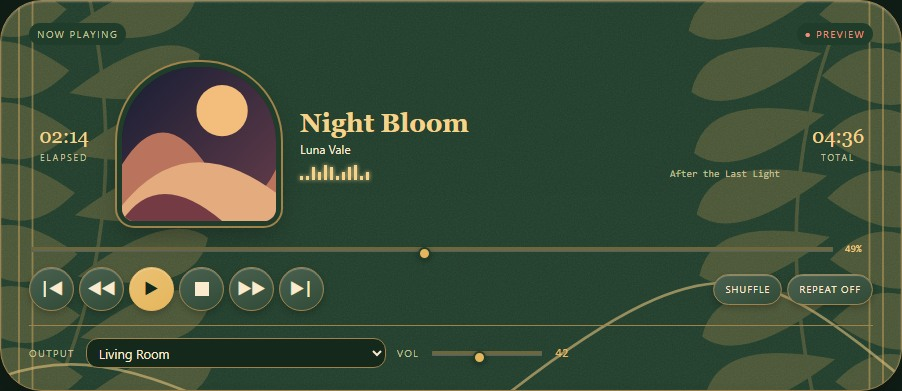
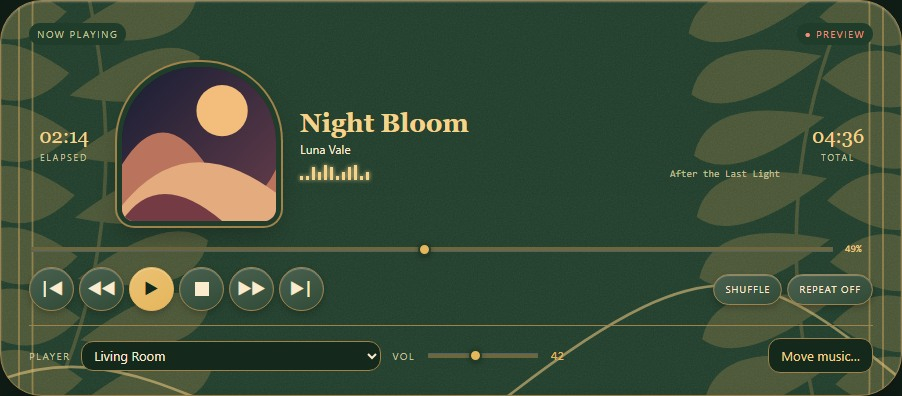
Refine marketing site readability and support
## Changes
- Replace the closing monogram with the Decksona logo and improve the platform label.
- Tune supporting text sizes to improve readability without overpowering the page.
- Add phone audio resume guidance and a support page covering setup, connection, playback, and updates.
- Regenerate the five featured skin previews from the current player UI so seek and volume controls align.
- Update preview dimensions and include the support page in the sitemap.

diff --git a/marketing/index.html b/marketing/index.html
@@ -76,12 +76,12 @@
       <section class="skins-section" id="skins">
         <div class="section-wrap">
           <div class="marketing-themes-intro"><span class="section-index">03</span><p class="eyebrow">PICK YOUR FREQUENCY</p><h2>57 ways to make<br>it <em>feel like yours.</em></h2><p>Explore 21 crafted listening rooms, from walnut and amber to stained glass and sea glass. Plus the original 36 palette and surface combinations. Every preview shows the actual player.</p><p class="skins-note"><span class="tiny-spark">✳</span> Your skin choice stays on your computer.</p></div>
-          <div class="marketing-theme-feature"><figure><img src="assets/theme-previews/vinyl-lounge.jpg" alt="Vinyl Lounge player skin with a record-inspired album frame, warm walnut tones, amber controls and track details" loading="lazy" width="900" height="570"><figcaption><span>01 / LISTENING ROOM</span><strong>Vinyl Lounge</strong><span>Walnut · amber light · the long way home</span></figcaption></figure></div>
+          <div class="marketing-theme-feature"><figure><img src="assets/theme-previews/vinyl-lounge.jpg" alt="Vinyl Lounge player skin with a record-inspired album frame, warm walnut tones, amber controls and track details" loading="lazy" width="902" height="396"><figcaption><span>01 / LISTENING ROOM</span><strong>Vinyl Lounge</strong><span>Walnut · amber light · the long way home</span></figcaption></figure></div>
           <div class="marketing-theme-grid" aria-label="Actual player previews for the listening room themes">
-            <figure><img src="assets/theme-previews/liquid-chrome.jpg" alt="Liquid Chrome player with silver waves and blue sculpted controls" loading="lazy" width="900" height="570"><figcaption>Liquid Chrome</figcaption></figure>
-            <figure><img src="assets/theme-previews/moss-mist.jpg" alt="Moss and Mist player with sage surfaces and botanical details" loading="lazy" width="900" height="570"><figcaption>Moss &amp; Mist</figcaption></figure>
-            <figure><img src="assets/theme-previews/jazz-after-hours.jpg" alt="Jazz After Hours player in burgundy and brass" loading="lazy" width="900" height="570"><figcaption>Jazz After Hours</figcaption></figure>
-            <figure><img src="assets/theme-previews/art-nouveau.jpg" alt="Art Nouveau player with emerald and curling champagne-gold details" loading="lazy" width="900" height="570"><figcaption>Art Nouveau</figcaption></figure>
+            <figure><img src="assets/theme-previews/liquid-chrome.jpg" alt="Liquid Chrome player with silver waves and blue sculpted controls" loading="lazy" width="902" height="408"><figcaption>Liquid Chrome</figcaption></figure>
+            <figure><img src="assets/theme-previews/moss-mist.jpg" alt="Moss and Mist player with sage surfaces and botanical details" loading="lazy" width="902" height="396"><figcaption>Moss &amp; Mist</figcaption></figure>
+            <figure><img src="assets/theme-previews/jazz-after-hours.jpg" alt="Jazz After Hours player in burgundy and brass" loading="lazy" width="902" height="396"><figcaption>Jazz After Hours</figcaption></figure>
+            <figure><img src="assets/theme-previews/art-nouveau.jpg" alt="Art Nouveau player with emerald and curling champagne-gold details" loading="lazy" width="902" height="396"><figcaption>Art Nouveau</figcaption></figure>
           </div>
           <p class="marketing-more-skins"><strong>And 52 more skins to find your frequency.</strong> Explore all 57 in the app, including 21 listening rooms and 36 classic palette and surface combinations.</p>
         </div>
@@ -96,6 +96,8 @@
             <p>The phone-sized web app brings Decksona’s player, library and queue to your iPhone or Android browser. Add it to your home screen and use your phone as a remote for Music Assistant.</p>
             <div class="phone-tabs" aria-label="Web app tabs"><span>PLAYER</span><span>LIBRARY</span><span>QUEUE</span></div>
             <p class="phone-output-note"><strong>Your phone controls the music.</strong> Playback comes from the Music Assistant output you choose; the phone itself isn’t an audio output.</p>
+            <p class="phone-resume-note"><strong>Pick up where you left off.</strong> If phone audio pauses or iOS interrupts it, return to Decksona and tap <strong>Resume phone audio</strong>.</p>
+            <a class="phone-help-link" href="help.html">Phone setup and troubleshooting <span aria-hidden="true">↗</span></a>
           </div>
           <div class="phone-setup">
             <div class="phone-setup-heading"><span class="phone-setup-icon">↗</span><div><span class="eyebrow">INSTALL ON YOUR HOME NETWORK</span><h3>Bring Decksona<br>to your home screen.</h3></div></div>
@@ -105,6 +107,7 @@
               <li><span>03</span><div><strong>Add to your home screen</strong><p>Use Safari’s Share menu on iPhone, or Chrome’s menu on Android, then connect your Music Assistant server.</p></div></li>
             </ol>
             <a class="phone-source-link" href="https://github.com/gmalbert/decksona/tree/main/web" target="_blank" rel="noreferrer">Web app files &amp; full setup guide on GitHub <span>↗</span></a>
+            <a class="phone-source-link phone-help-link-setup" href="help.html">Get help with setup and playback <span aria-hidden="true">↗</span></a>
             <p class="phone-security"><strong>For home Wi-Fi:</strong> this setup uses local HTTP. Its access token is saved in the phone’s browser and travels over your local network without TLS. Don’t expose it to the internet or use it on public Wi-Fi.</p>
           </div>
         </div>
@@ -112,10 +115,10 @@
 
       <section class="setup-section" id="getting-started"><div class="section-wrap"><div class="setup-heading"><span class="section-index">05</span><p class="eyebrow">UP AND PLAYING</p><h2>Three steps to<br><em>your next favorite.</em></h2><p>Decksona uses your Music Assistant server and its connected players to control playback.</p></div><div class="setup-steps"><article class="setup-step"><span class="step-index">01</span><h3>Have Music Assistant ready.</h3><p>Decksona connects to Music Assistant over your network. It needs a direct server address, such as <code>http://your-server:8095</code>.</p><a href="https://www.music-assistant.io/" target="_blank" rel="noreferrer">About Music Assistant <span>↗</span></a></article><article class="setup-step"><span class="step-index">02</span><h3>Create a long-lived token.</h3><p>In Music Assistant, open <strong>Settings → Profile</strong> to create an access token for the connection.</p></article><article class="setup-step"><span class="step-index">03</span><h3>Connect. Choose. Play.</h3><p>Enter your server address and token in Decksona, select an available Music Assistant output, and search your library.</p></article></div><div class="compat-note"><span class="compat-icon">✳</span><span><strong>Using Decksona on your desktop?</strong> The Music Assistant Desktop Companion can provide a <a class="sendspin-link" href="https://www.music-assistant.io/player-support/sendspin/" target="_blank" rel="noreferrer">Sendspin</a> output. Select that output in Decksona to play through your computer’s speakers.</span><a href="https://github.com/music-assistant/desktop-app" target="_blank" rel="noreferrer">See the companion ↗</a></div></div></section>
 
-      <section class="closing-section"><div class="closing-orbit closing-orbit-one"></div><div class="closing-orbit closing-orbit-two"></div><div class="closing-content"><span class="closing-mark">D<span>•</span></span><p class="eyebrow">GOOD MUSIC DESERVES A GOOD HOME.</p><h2>Your desk.<br>Your collection.<br><em>Now playing.</em></h2><a class="button button-primary" href="https://github.com/gmalbert/decksona" target="_blank" rel="noreferrer">Find Decksona on GitHub <span>↗</span></a><p class="closing-platforms">WINDOWS &nbsp;·&nbsp; macOS &nbsp;·&nbsp; MUSIC ASSISTANT</p></div></section>
+      <section class="closing-section"><div class="closing-orbit closing-orbit-one"></div><div class="closing-orbit closing-orbit-two"></div><div class="closing-content"><img class="closing-mark" src="assets/icon.svg" alt="Decksona"><p class="eyebrow">GOOD MUSIC DESERVES A GOOD HOME.</p><h2>Your desk.<br>Your collection.<br><em>Now playing.</em></h2><a class="button button-primary" href="https://github.com/gmalbert/decksona" target="_blank" rel="noreferrer">Find Decksona on GitHub <span>↗</span></a><p class="closing-platforms">WINDOWS &nbsp;·&nbsp; macOS &nbsp;·&nbsp; MUSIC ASSISTANT</p></div></section>
     </main>
 
-    <footer class="site-footer"><a class="wordmark footer-wordmark" href="#top"><img src="assets/icon.svg" alt=""><span>decksona<span class="wordmark-dot">.</span></span></a><p>A desktop and phone player for Music Assistant.<br>Made for listening, one track at a time.</p><div class="footer-links"><a href="https://github.com/gmalbert/decksona" target="_blank" rel="noreferrer">GitHub ↗</a><a href="https://www.music-assistant.io/" target="_blank" rel="noreferrer">Music Assistant ↗</a><a href="#top">Back to top ↑</a></div><span class="footer-copyright">© <span id="year">2026</span> DECKSONA</span></footer>
+    <footer class="site-footer"><a class="wordmark footer-wordmark" href="#top"><img src="assets/icon.svg" alt=""><span>decksona<span class="wordmark-dot">.</span></span></a><p>A desktop and phone player for Music Assistant.<br>Made for listening, one track at a time.</p><div class="footer-links"><a href="help.html">Support &amp; troubleshooting</a><a href="https://github.com/gmalbert/decksona" target="_blank" rel="noreferrer">GitHub ↗</a><a href="https://www.music-assistant.io/" target="_blank" rel="noreferrer">Music Assistant ↗</a><a href="#top">Back to top ↑</a></div><span class="footer-copyright">© <span id="year">2026</span> DECKSONA</span></footer>
     <script src="script.js"></script>
   </body>
 </html>

diff --git a/marketing/refinements.css b/marketing/refinements.css
@@ -323,3 +323,123 @@
 
 .marketing-more-skins { max-width:700px; padding:28px 0 60px; margin:0; color:#b9baa9; line-height:1.8; }
 .marketing-more-skins strong { display:block; margin-bottom:8px; color:#f0dfbf; font:25px Georgia,serif; }
+
+/* Keep explanatory copy readable while retaining compact labels inside player mockups. */
+.visual-caption { font-size:16px; line-height:1.5; }
+.phone-output-note { font-size:20px !important; }
+.phone-resume-note { max-width:430px; margin:15px 0 0; color:#c8c9bf; font-size:18px; line-height:1.75; }
+.phone-resume-note strong { color:#e9e7dc; }
+.phone-help-link { display:inline-block; margin-top:12px; color:var(--teal); font-size:18px; }
+.phone-help-link span { margin-left:5px; }
+.phone-setup-heading .eyebrow { font-size:16px; }
+.phone-steps strong { font-size:18px; }
+.phone-steps p { font-size:16px; }
+.phone-steps code { font-size:16px; }
+.phone-source-link { font-size:16px; }
+.phone-help-link-setup { margin-left:15px; }
+.phone-security { font-size:18px; }
+.marketing-theme-feature figcaption span:first-child { font-size:16px; }
+.marketing-theme-feature figcaption span:last-child { font-size:16px; }
+.marketing-themes-intro .skins-note { font-size:18px !important; }
+.marketing-more-skins { font-size:16px; }
+.help-page { min-height:70vh; padding:68px 32px 100px; }
+.help-intro { max-width:900px; padding:22px 0 45px; }
+.help-back { display:inline-block; margin-bottom:35px; color:var(--teal); font-size:16px; }
+.help-intro .eyebrow { font-size:16px; }
+.help-intro h1 { margin:15px 0 18px; font:500 clamp(48px,7vw,82px)/.98 var(--serif); letter-spacing:-.065em; }
+.help-intro h1 em { color:var(--teal); font-weight:400; }
+.help-intro>p:last-child { max-width:660px; margin:0; color:var(--muted); font-size:20px; line-height:1.75; }
+.help-content { max-width:900px; }
+.help-topic { display:grid; grid-template-columns:54px 1fr; gap:18px; padding:30px 0; border-top:1px solid var(--line-bright); }
+.help-topic .section-index { font-size:16px; }
+.help-topic h2 { margin:0 0 12px; font:500 clamp(24px,3vw,34px)/1.15 var(--serif); letter-spacing:-.04em; }
+.help-topic p { max-width:750px; margin:9px 0 0; color:#c1c2b8; font-size:18px; line-height:1.75; }
+.help-topic code { padding:2px 5px; background:#ffffff10; color:#e2dfd2; font-size:16px; overflow-wrap:anywhere; }
+.help-more { margin-top:20px; padding:24px; border:1px solid #70d9bd40; background:#151c17; }
+.help-more p { margin:0; color:#c1c2b8; font-size:18px; line-height:1.75; }
+.help-more p+p { margin-top:13px; }
+.help-more a { color:var(--teal); text-decoration:underline; text-underline-offset:3px; }
+
+@media(max-width:620px) {
+  .visual-caption { font-size:12px; }
+  .phone-output-note { font-size:16px !important; }
+  .phone-resume-note,.phone-help-link,.phone-steps p,.phone-source-link { font-size:16px; }
+  .phone-setup-heading .eyebrow,.phone-steps strong { font-size:14px; }
+  .phone-steps code,.phone-security { font-size:14px; }
+  .phone-help-link-setup { margin:12px 0 0; }
+  .marketing-theme-feature figcaption span:first-child,.marketing-theme-feature figcaption span:last-child { font-size:14px; }
+  .help-page { padding:48px 20px 72px; }
+  .help-intro { padding:15px 0 30px; }
+  .help-intro .eyebrow,.help-back { font-size:14px; }
+  .help-intro>p:last-child { font-size:18px; }
+  .help-topic { grid-template-columns:34px 1fr; gap:12px; padding:23px 0; }
+  .help-topic .section-index { font-size:14px; }
+  .help-topic p,.help-more p { font-size:16px; }
+  .help-topic code { font-size:14px; }
+  .help-more { padding:18px; }
+}
+
+/* Modestly enlarge supporting copy without letting it compete with headings. */
+.eyebrow,.section-index { font-size:15px; }
+.platform-note { font-size:15px; }
+.visual-caption { font-size:12px; }
+.hero-baseline { font-size:12px; }
+.manifesto-kicker { font-size:14px; }
+.section-heading .eyebrow,.skins-copy .eyebrow,.setup-heading .eyebrow { font-size:14px; }
+.section-intro,.skins-copy>p:not(.eyebrow),.marketing-themes-intro>p:not(.eyebrow):not(.skins-note) { font-size:15px; }
+.feature-number,.card-footnote { font-size:12px; }
+.feature-card>p { font-size:14px; }
+.phone-copy .eyebrow { font-size:14px; }
+.phone-output-note { font-size:15px !important; }
+.phone-resume-note,.phone-help-link { font-size:15px; }
+.phone-tabs span,.phone-steps li>span { font-size:12px; }
+.phone-setup-heading .eyebrow { font-size:12px; }
+.phone-steps strong { font-size:15px; }
+.phone-steps p,.phone-source-link { font-size:13px; }
+.phone-steps code { font-size:12px; }
+.phone-security { font-size:14px; }
+.phone-help-link-setup { margin-left:15px; }
+.marketing-theme-feature figcaption span:first-child { font-size:13px; }
+.marketing-theme-feature figcaption span:last-child { font-size:14px; }
+.marketing-themes-intro .skins-note { font-size:14px !important; }
+.marketing-more-skins { font-size:15px; }
+.setup-heading>p:last-child { font-size:14px; }
+.setup-step p { font-size:14px; }
+.setup-step code { font-size:12px; }
+.setup-step>a { font-size:14px; }
+.compat-note>span:nth-child(2),.compat-note>a { font-size:14px; }
+.site-footer>p,.footer-links { font-size:14px; }
+.footer-copyright { font-size:12px; }
+.closing-content .eyebrow { font-size:14px; }
+.closing-platforms { font-size:12px; }
+.closing-mark { width:52px; height:52px; display:block; margin:0 auto 22px; border:0; border-radius:0; object-fit:contain; }
+.help-back,.help-intro .eyebrow { font-size:14px; }
+.help-intro>p:last-child,.help-topic p,.help-more p { font-size:16px; }
+.help-topic .section-index { font-size:14px; }
+.help-topic code { font-size:13px; }
+
+@media(max-width:620px) {
+  .eyebrow,.section-index,.phone-copy .eyebrow { font-size:13px; }
+  .platform-note { font-size:13px; }
+  .hero-baseline { font-size:9px; }
+  .manifesto-kicker { font-size:12px; }
+  .section-heading .eyebrow,.skins-copy .eyebrow,.setup-heading .eyebrow { font-size:12px; }
+  .section-intro,.skins-copy>p:not(.eyebrow),.marketing-themes-intro>p:not(.eyebrow):not(.skins-note) { font-size:14px; }
+  .feature-number,.card-footnote { font-size:11px; }
+  .feature-card>p { font-size:13px; }
+  .phone-output-note { font-size:14px !important; }
+  .phone-resume-note,.phone-help-link,.phone-steps p,.phone-source-link { font-size:13px; }
+  .phone-setup-heading .eyebrow,.phone-steps li>span,.phone-tabs span { font-size:11px; }
+  .phone-steps strong { font-size:14px; }
+  .phone-steps code,.phone-security { font-size:12px; }
+  .phone-help-link-setup { margin:12px 0 0; }
+  .setup-heading>p:last-child { font-size:13px; }
+  .setup-step p { font-size:13px; }
+  .setup-step>a,.compat-note>a { font-size:13px; }
+  .compat-note>span:nth-child(2) { font-size:13px; }
+  .site-footer>p,.footer-links { font-size:12px; }
+  .footer-copyright { font-size:10px; }
+  .closing-platforms { font-size:11px; }
+  .help-intro>p:last-child,.help-topic p,.help-more p { font-size:15px; }
+  .help-topic code { font-size:12px; }
+}

diff --git a/marketing/help.html b/marketing/help.html
@@ -1,0 +1,80 @@
+<!doctype html>
+<html lang="en">
+  <head>
+    <meta charset="utf-8">
+    <meta name="viewport" content="width=device-width, initial-scale=1">
+    <meta name="theme-color" content="#10130f">
+    <meta name="description" content="Decksona setup help and troubleshooting for Music Assistant connections, phone audio, and playback.">
+    <link rel="icon" href="assets/icon.svg" type="image/svg+xml">
+    <link rel="preconnect" href="https://fonts.googleapis.com">
+    <link rel="preconnect" href="https://fonts.gstatic.com" crossorigin>
+    <link href="https://fonts.googleapis.com/css2?family=DM+Mono:wght@400;500&family=DM+Sans:wght@400;500;600;650;700;750;800&family=Space+Grotesk:wght@400;500;600;700&display=swap" rel="stylesheet">
+    <link rel="stylesheet" href="style.css">
+    <link rel="stylesheet" href="refinements.css">
+    <title>Support &amp; troubleshooting — Decksona</title>
+  </head>
+  <body>
+    <header class="site-header" id="top">
+      <div class="header-inner">
+        <a class="wordmark" href="index.html" aria-label="Decksona home"><img src="assets/icon.svg" alt=""><span>decksona<span class="wordmark-dot">.</span></span></a>
+        <button class="menu-toggle" aria-expanded="false" aria-label="Open navigation"><span></span><span></span></button>
+        <nav class="main-nav" aria-label="Main navigation">
+          <a href="index.html#features">Features</a>
+          <a href="index.html#skins">Make it yours</a>
+          <a href="index.html#phone-app">Phone app</a>
+          <a href="index.html#getting-started">Getting started</a>
+          <a class="nav-cta" href="https://github.com/gmalbert/decksona" target="_blank" rel="noreferrer">Explore on GitHub <span aria-hidden="true">↗</span></a>
+        </nav>
+      </div>
+    </header>
+    <main class="help-page">
+      <section class="help-intro section-wrap">
+        <a class="help-back" href="index.html#phone-app">← Back to Decksona</a>
+        <p class="eyebrow">SETUP, PLAYBACK &amp; CONNECTIONS</p>
+        <h1>Need a hand<br><em>getting in tune?</em></h1>
+        <p>Quick answers for connecting Decksona, listening on your phone, and picking up playback after an interruption.</p>
+      </section>
+      <section class="help-content section-wrap" aria-label="Decksona support topics">
+        <article class="help-topic" id="resume-phone-audio">
+          <span class="section-index">01</span>
+          <div><h2>Phone audio stopped or did not resume</h2>
+            <p>Phones require a tap to start or resume browser audio. Open Decksona and tap <strong>Listen on this phone</strong> or <strong>Resume phone audio</strong>. Decksona does not autoplay phone audio after the app opens or reloads.</p>
+            <p>On iPhone, iOS may pause web audio when the screen locks, the app goes to the background, or a call interrupts it. Return to Decksona and tap the resume control. Keep the app open while listening.</p>
+          </div>
+        </article>
+        <article class="help-topic" id="cannot-connect">
+          <span class="section-index">02</span>
+          <div><h2>Decksona cannot connect to Music Assistant</h2>
+            <p>Use Music Assistant’s direct server address, usually <code>http://MUSIC_ASSISTANT_IP:8095</code> on a home network. A Home Assistant ingress URL is not a direct Music Assistant address.</p>
+            <p>Create the long-lived access token in <strong>Music Assistant → Settings → Profile</strong>. Long-lived access tokens created in Home Assistant will not work. Confirm that the phone or computer can reach the Music Assistant server on the same network.</p>
+          </div>
+        </article>
+        <article class="help-topic" id="player-setup">
+          <span class="section-index">03</span>
+          <div><h2>A player says “Setup required”</h2>
+            <p>Open Music Assistant and complete the requested setup for the Decksona player. Depending on the server’s access settings, choose guest or unpaired playback, or pair the player with the code Decksona displays.</p>
+          </div>
+        </article>
+        <article class="help-topic" id="phone-network">
+          <span class="section-index">04</span>
+          <div><h2>The phone cannot open the web app</h2>
+            <p>Make sure Home Assistant is serving the files from <code>www/decksona</code>, and open the full address <code>http://HOME_ASSISTANT_IP:8123/local/decksona/index.html</code>. The phone and server must be on a Wi-Fi network that allows devices to reach each other.</p>
+            <p>This home-network setup uses HTTP. Keep it on trusted local Wi-Fi; do not expose the address or Music Assistant token to the public internet.</p>
+          </div>
+        </article>
+        <article class="help-topic" id="update-phone-app">
+          <span class="section-index">05</span>
+          <div><h2>The phone app still shows an older version</h2>
+            <p>Copy the latest contents of the repository’s <code>web/</code> folder over the existing Home Assistant <code>www/decksona/</code> files, including the skins and audio bundle. Use Decksona’s <strong>Reload</strong> update notice if it appears. Reopening the Home Screen shortcut may still use cached files.</p>
+          </div>
+        </article>
+        <div class="help-more">
+          <p>For full installation steps, browser limitations, and advanced phone-audio settings, see the <a href="https://github.com/gmalbert/decksona/blob/main/web/README.md" target="_blank" rel="noreferrer">phone app setup guide on GitHub ↗</a>.</p>
+          <p>Still stuck? <a href="https://github.com/gmalbert/decksona/issues" target="_blank" rel="noreferrer">Open a GitHub issue ↗</a> and include your device, browser, and what you were doing when the problem happened. Never include your access token.</p>
+        </div>
+      </section>
+    </main>
+    <footer class="site-footer"><a class="wordmark footer-wordmark" href="index.html"><img src="assets/icon.svg" alt=""><span>decksona<span class="wordmark-dot">.</span></span></a><p>A desktop and phone player for Music Assistant.<br>Made for listening, one track at a time.</p><div class="footer-links"><a href="index.html#phone-app">Phone app</a><a href="https://github.com/gmalbert/decksona" target="_blank" rel="noreferrer">GitHub ↗</a><a href="index.html">Decksona home ↑</a></div><span class="footer-copyright">© 2026 DECKSONA</span></footer>
+    <script src="script.js"></script>
+  </body>
+</html>
